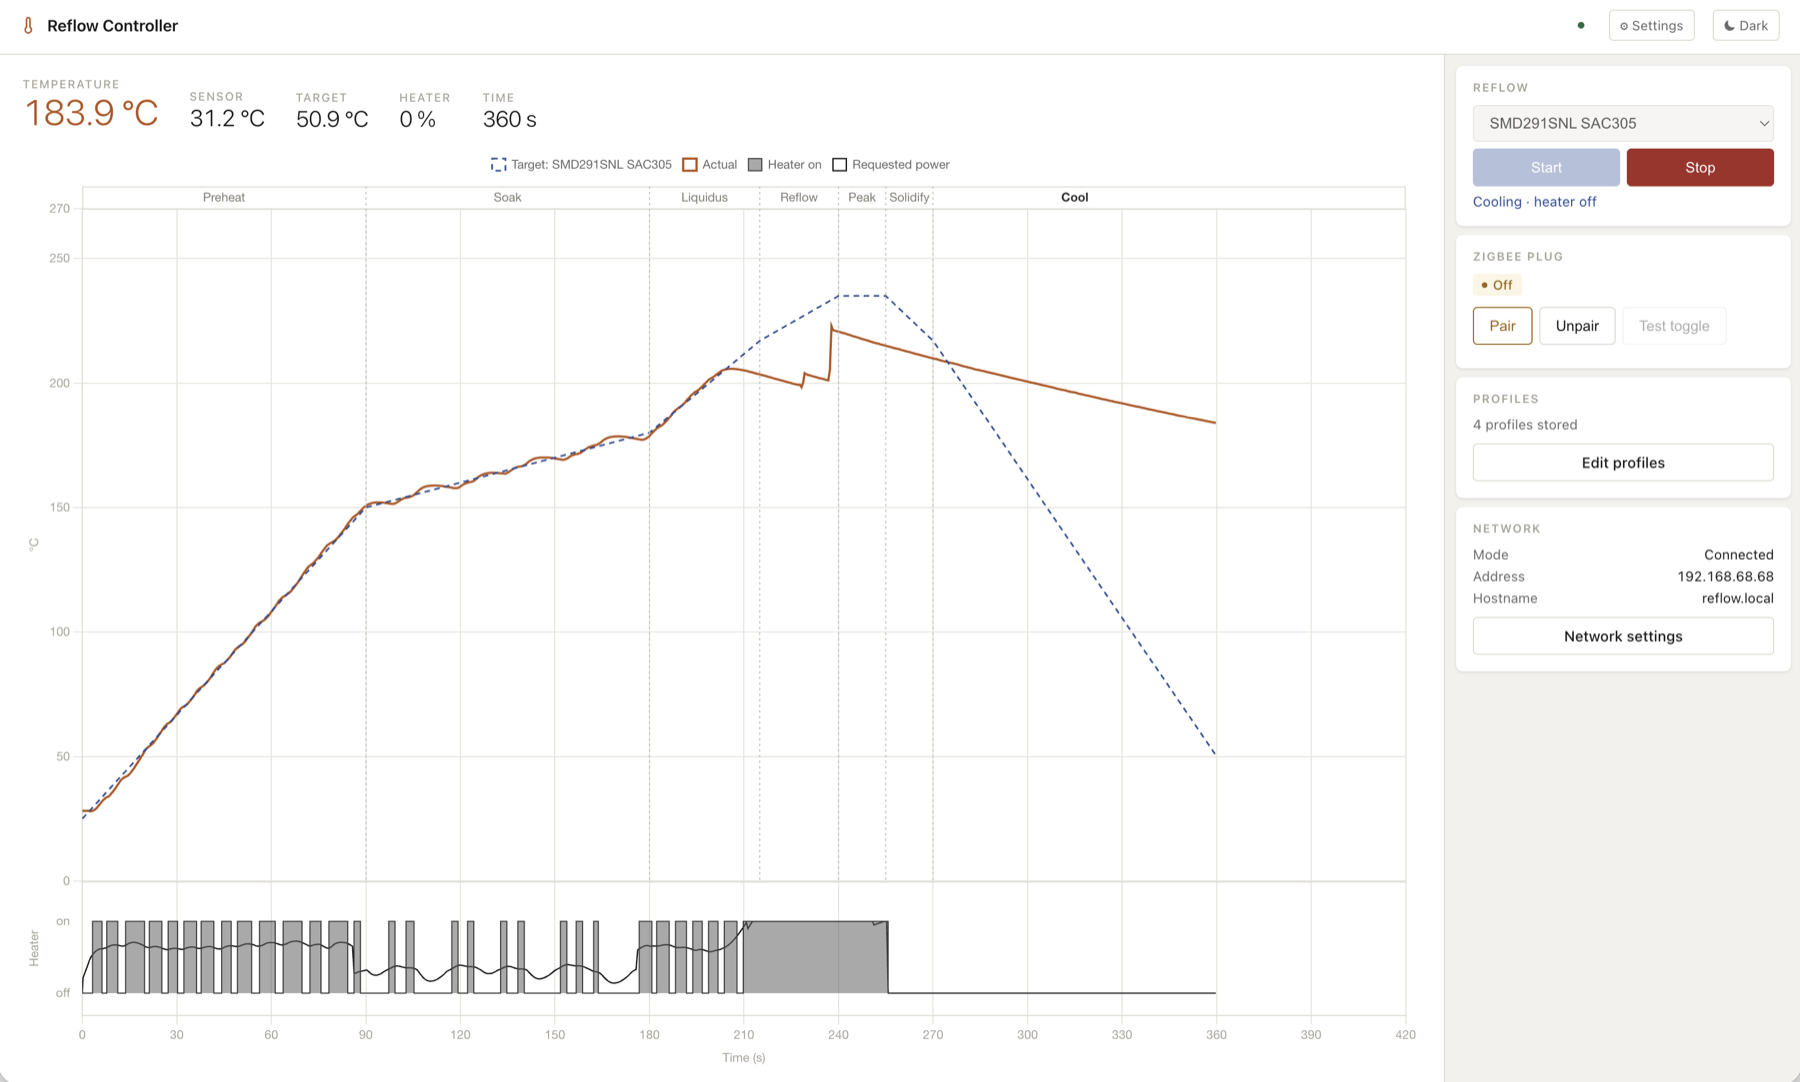
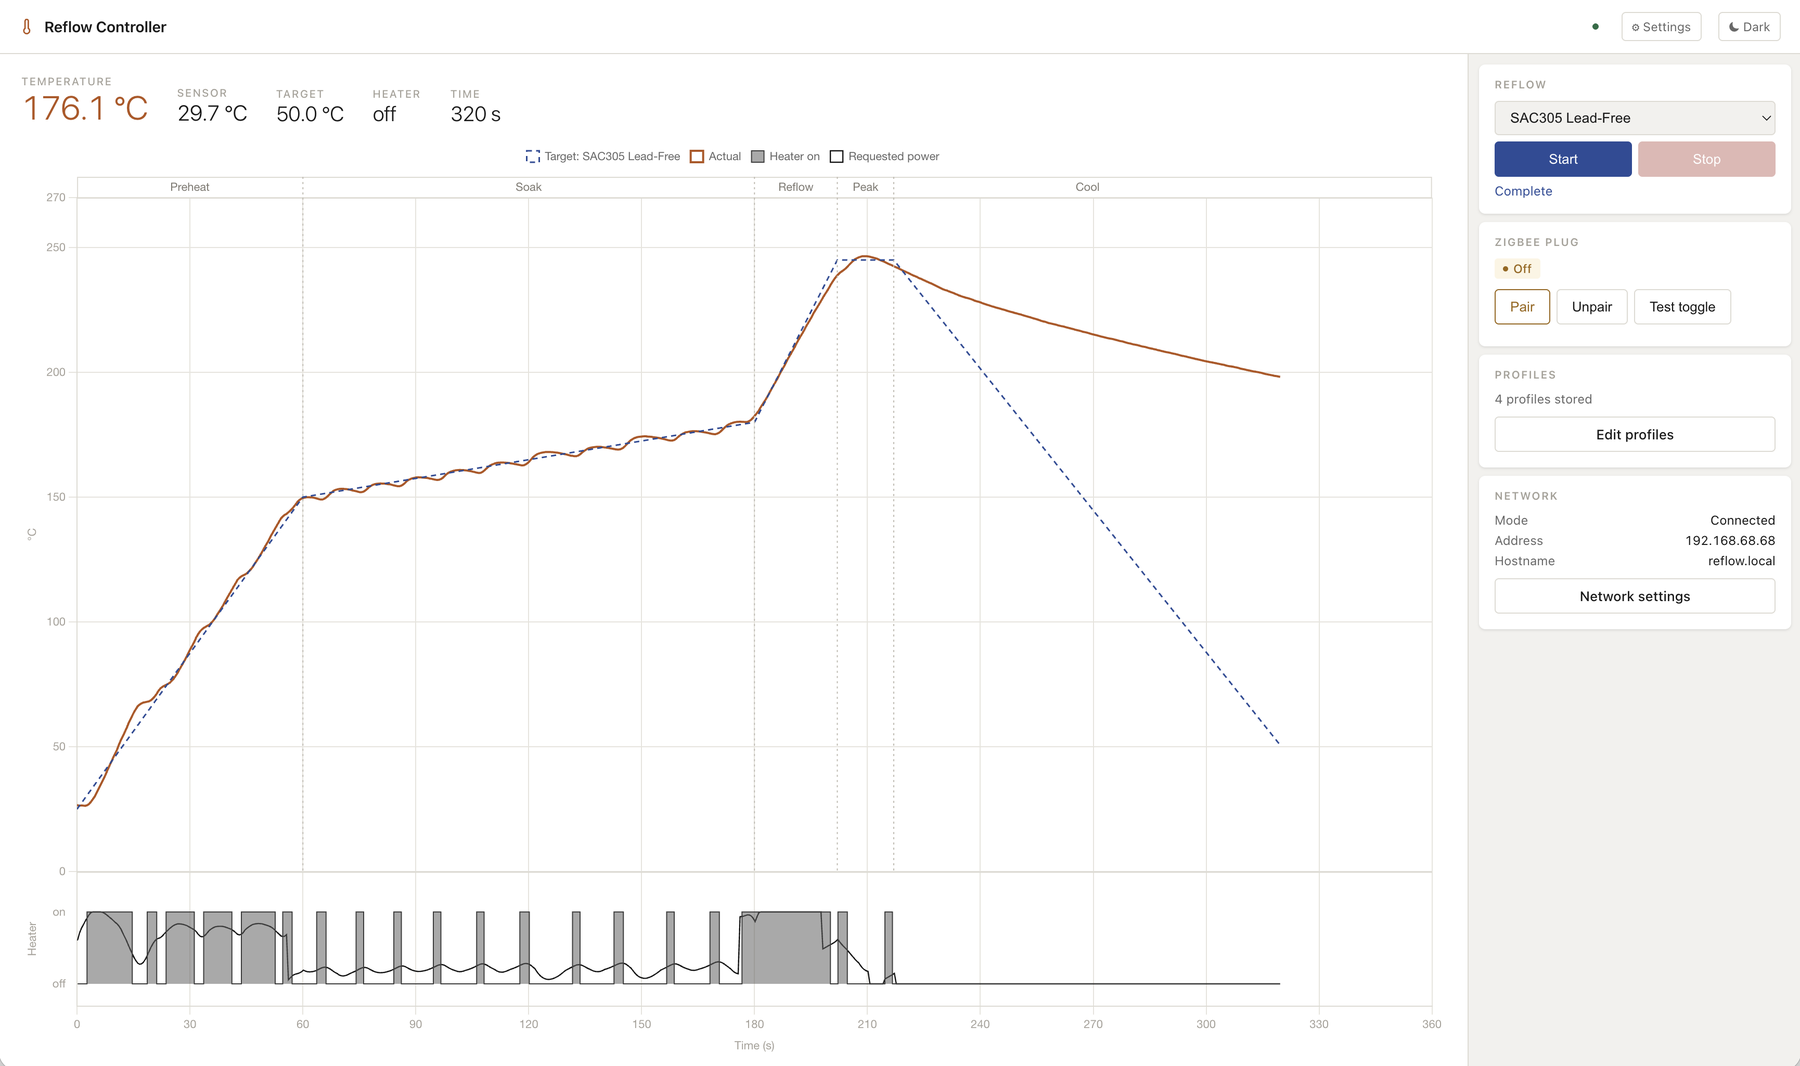
Replace the README screenshot with a SAC305 Lead-Free run

diff --git a/README.md b/README.md
@@ -10,11 +10,11 @@ switched by an off-the-shelf Zigbee smart plug and controlled from your
 browser. An ESP32-C6 reads the soleplate with an IR sensor and follows a
 reflow profile.
 
-![The web interface after an SMD291SNL SAC305 run: the dashed profile and the measured temperature, the profile's phases along the top, and the heater strip below (grey: heater on; line: requested power)](docs/ui-run.png)
+![The web interface after a SAC305 Lead-Free run: the dashed profile and the measured temperature, the profile's phases along the top, and the heater strip below (grey: heater on; line: requested power)](docs/ui-run.png)
 
-*A complete SMD291SNL SAC305 run in the web interface:*
-- *The measured temperature (solid) follows the profile (dashed) through preheat and soak.*
-- *The heater strip shows the separate 2 s pulses on the soak, and full power at the peak, where the iron's own thermostat cuts out.*
+*A complete run of the built-in SAC305 Lead-Free profile in the web interface:*
+- *The measured temperature (solid) follows the profile (dashed) through preheat, soak and the 245 °C peak.*
+- *The heater strip shows the separate 2 s pulses on the soak, and full power on the ramp to the peak.*
 - *Cool-down is passive.*
 
 ## The problem
